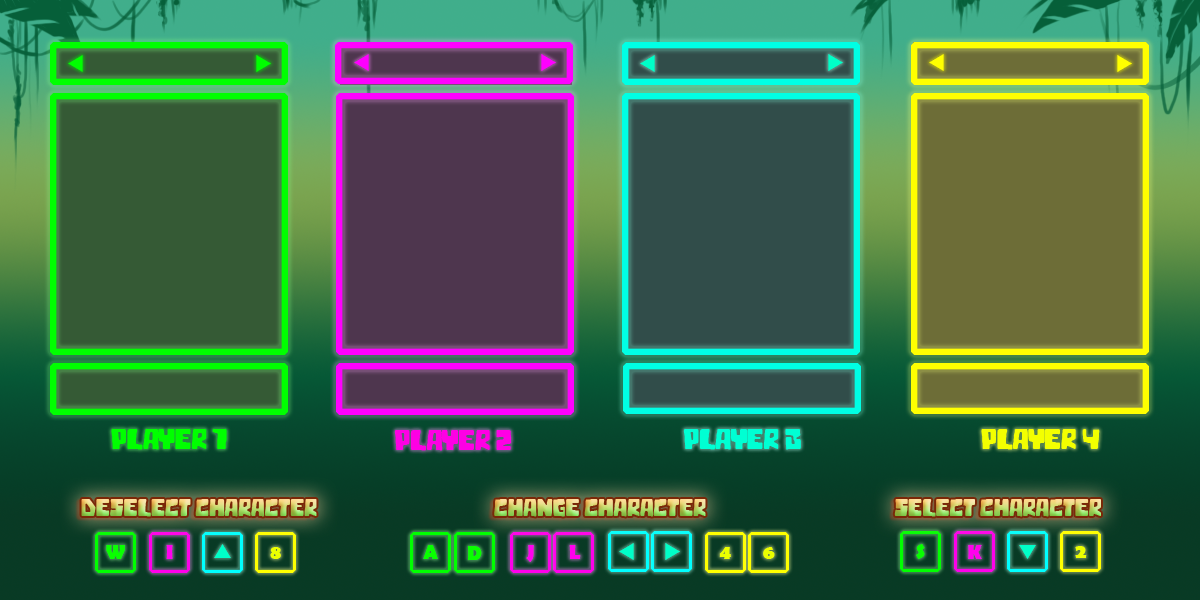
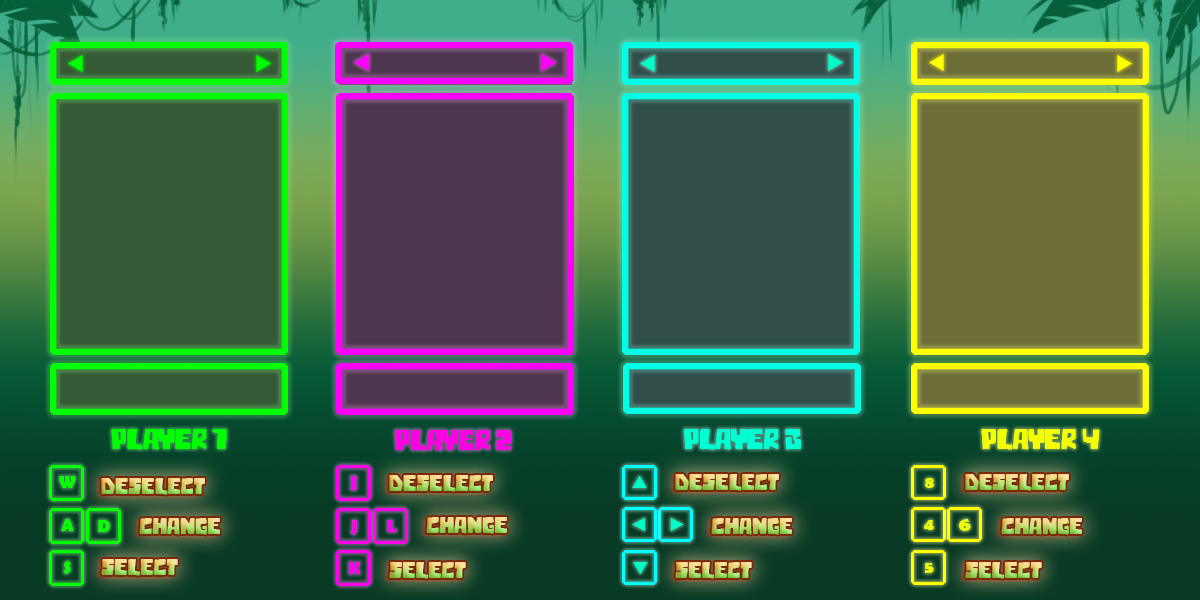
Things teachers told us to improve.

Changed region(s): [[0.0308, 0.75, 0.6783, 0.99], [0.74, 0.75, 0.925, 0.99]]

diff --git a/MangoMambo/Development/scenes/choose_character.js b/MangoMambo/Development/scenes/choose_character.js
@@ -67,6 +67,12 @@ class ChooseCharacter extends Phaser.Scene {
         this.load.image("toufat_hab", "./Design/Objects/Text/toufat_hab.png");
         this.load.image("lemur_hab", "./Design/Objects/Text/lemur_hab.png");
 
+        // Texto e imagenes que aparecen si no te has unido a la partida
+        this.load.image("press_g_key", "./Design/Objects/Keypress/press_g_key.png");
+        this.load.image("press_p_key", "./Design/Objects/Keypress/press_p_key.png");
+        this.load.image("press_b_key", "./Design/Objects/Keypress/press_b_key.png");
+        this.load.image("press_y_key", "./Design/Objects/Keypress/press_y_key.png");
+
         // Ready! para cuando el personaje se selecciona
         this.load.image("ready", "./Design/Objects/Text/ready.png");
 
@@ -137,6 +143,23 @@ class ChooseCharacter extends Phaser.Scene {
         // Boton escape
         this.escapeButton = this.add.image(45, 20, "escape_button");
 
+        // Texto e imagenes que aparecen si no te has unido a la partida
+        this.gkeys = this.add.image(169, 218, "press_g_key").setDepth(1);
+        this.pkeys = this.add.image(457.38, 218, "press_p_key").setDepth(1);
+        this.bkeys = this.add.image(746.48, 218, "press_b_key").setDepth(1);
+        this.ykeys = this.add.image(1035.23, 218, "press_y_key").setDepth(1);
+        // Movimiento
+        var tween = this.tweens.add({
+            targets: [this.gkeys, this.pkeys, this.bkeys, this.ykeys],
+            scaleX: 0.96,
+            scaleY: 0.96,
+            y: 220,
+            ease: 'Sine.easeInOut',
+            duration: 1000,
+            yoyo: true,
+            repeat: -1
+        });
+
         // Texto ready (seleccionado)
         this.ready1 = this.add.image(171.50, 239.05, "ready").setDepth(1);
         this.ready2 = this.add.image(457.50, 239.05, "ready").setDepth(1);
@@ -201,6 +224,7 @@ class ChooseCharacter extends Phaser.Scene {
                 this.players[0].active = true;
                 this.numPlayers++;
                 this.ChangeText(this.selector1, 0);// Que aparezca la habilidad/nombre al empezar a seleccionar
+                this.gkeys.alpha = 0;// Desaparecen las teclas
             }
         }else {// Si el jugador 1 ya se encuentra activo
             // A para cambiar de personaje
@@ -248,6 +272,7 @@ class ChooseCharacter extends Phaser.Scene {
                 this.selector1 = 0;
                 this.habilities[0].hab.alpha = 0;// Ocultar habilidad
                 this.names[0].name.alpha = 0;// Ocultar nombre
+                this.gkeys.alpha = 1;// Aparecen las teclas
             }
         }// Fin jugador 1
 
@@ -259,6 +284,7 @@ class ChooseCharacter extends Phaser.Scene {
                 this.players[1].active = true;
                 this.numPlayers++;
                 this.ChangeText(this.selector2, 1);// Que aparezca la habilidad/nombre al empezar a seleccionar
+                this.pkeys.alpha = 0;// Desaparecen las teclas
             }
         }else {
             // J para cambiar de personaje
@@ -306,6 +332,7 @@ class ChooseCharacter extends Phaser.Scene {
                 this.selector2 = 0;
                 this.habilities[1].hab.alpha = 0; // Ocultar habilidad
                 this.names[1].name.alpha = 0; // Ocultar nombre
+                this.pkeys.alpha = 1;// Aparecen las teclas
             }
         }//Fin jugador 2
         
@@ -317,6 +344,7 @@ class ChooseCharacter extends Phaser.Scene {
                 this.players[2].active = true;
                 this.numPlayers++;
                 this.ChangeText(this.selector3, 2);// Que aparezca la habilidad/nombre al empezar a seleccionar
+                this.bkeys.alpha = 0;// Desaparecen las teclas
             }
         }else {
             // LEFT para cambiar de personaje
@@ -364,6 +392,7 @@ class ChooseCharacter extends Phaser.Scene {
                 this.selector3 = 0;
                 this.habilities[2].hab.alpha = 0;// Ocultar habilidad
                 this.names[2].name.alpha = 0;// Ocultar nombre
+                this.bkeys.alpha = 1;// Aparecen las teclas
             }
         }//Fin jugador 3
         
@@ -375,6 +404,7 @@ class ChooseCharacter extends Phaser.Scene {
                 this.players[3].active = true;
                 this.numPlayers++;
                 this.ChangeText(this.selector4, 3);// Que aparezca la habilidad/nombre al empezar a seleccionar
+                this.ykeys.alpha = 0;// Desaparecen las teclas
             }
         }else {
             // NUMPAD_4 para cambiar de personaje
@@ -422,6 +452,7 @@ class ChooseCharacter extends Phaser.Scene {
                 this.selector4 = 0;
                 this.habilities[3].hab.alpha = 0;// Ocultar habilidad
                 this.names[3].name.alpha = 0;// Ocultar nombre
+                this.ykeys.alpha = 1;// Aparecen las teclas
             }
         }//Fin jugador 4
 

diff --git a/MangoMambo/Development/scenes/options.js b/MangoMambo/Development/scenes/options.js
@@ -12,12 +12,12 @@ class Options extends Phaser.Scene {
         // Cargar la imagen de fondo
         this.load.image("options_background", "./Design/Stages/Backgrounds/options_background.png");
         // Buttons
-        this.load.image("tutorial_button", "./Design/Objects/Buttons/tutorial_button.png");
+        //this.load.image("tutorial_button", "./Design/Objects/Buttons/tutorial_button.png"); NO SE INCLUYE EN ESTA FASE
         this.load.image("sound_button", "./Design/Objects/Buttons/sound_button.png");
         this.load.image("credits_button", "./Design/Objects/Buttons/credits_button.png");
         this.load.image("back_button", "./Design/Objects/Buttons/back_button.png");
         // Selected buttons
-        this.load.image("tutorial_button_select", "./Design/Objects/Buttons/tutorial_button_select.png");
+        //this.load.image("tutorial_button_select", "./Design/Objects/Buttons/tutorial_button_select.png"); NO SE INCLUYE EN ESTA FASE
         this.load.image("sound_button_select", "./Design/Objects/Buttons/sound_button_select.png");
         this.load.image("credits_button_select", "./Design/Objects/Buttons/credits_button_select.png");
         this.load.image("back_button_select", "./Design/Objects/Buttons/back_button_select.png");
@@ -35,13 +35,13 @@ class Options extends Phaser.Scene {
         // Fondo
         this.background = this.add.image(0, 0, "options_background").setOrigin(0,0).setDepth(0);
         // Botones 
-        this.tutorialButton = this.add.image(900, 130, "tutorial_button").setDepth(1);
+        //this.tutorialButton = this.add.image(900, 130, "tutorial_button").setDepth(1); NO SE INCLUYE EN ESTA FASE
         this.soundButton = this.add.image(900, 290, "sound_button").setDepth(1);
-        this.creditsButton = this.add.image(900, 470, "credits_button").setDepth(1);
+        this.creditsButton = this.add.image(900, 130, "credits_button").setDepth(1);
         this.backButton = this.add.image(150, 500, "back_button").setDepth(1);
-        this.tutorialButtonSelect = this.add.image(900, 130, "tutorial_button_select").setDepth(2);
+        //this.tutorialButtonSelect = this.add.image(900, 130, "tutorial_button_select").setDepth(2); NO SE INCLUYE EN ESTA FASE
         this.soundButtonSelect = this.add.image(900, 290, "sound_button_select").setDepth(2);
-        this.creditsButtonSelect = this.add.image(900, 470, "credits_button_select").setDepth(2);
+        this.creditsButtonSelect = this.add.image(900, 130, "credits_button_select").setDepth(2);
         this.backButtonSelect = this.add.image(150, 500, "back_button_select").setDepth(2);
         // Array de teclas
         this.cursors = [];
@@ -52,9 +52,11 @@ class Options extends Phaser.Scene {
         this.cursors[4] = this.input.keyboard.addKey(Phaser.Input.Keyboard.KeyCodes.ENTER);
         this.cursors[5] = this.input.keyboard.addKey(Phaser.Input.Keyboard.KeyCodes.ESC);
 
+        // Contador para el array de botones
         this.cont = 0;
 
-        this.options = [true, false, false, false];
+        //             Credits Sound Back
+        this.options = [true, false, false];
 
         // Se crea la música
         this.sound.pauseOnBlur = false;
@@ -68,7 +70,7 @@ class Options extends Phaser.Scene {
     update(time, delta){
 
         // Se esconde la imagen de seleción de los botones
-        this.tutorialButtonSelect.alpha = 0;
+        //this.tutorialButtonSelect.alpha = 0; NO SE INCLUYE EN ESTA FASE
         this.soundButtonSelect.alpha = 0;
         this.creditsButtonSelect.alpha = 0;
         this.backButtonSelect.alpha = 0;
@@ -87,30 +89,25 @@ class Options extends Phaser.Scene {
 
         //Resaltado de botón seleccionado
         if(this.options[0]){
-            this.tutorialButtonSelect.alpha = 1;
+            this.creditsButtonSelect.alpha = 1;
         }
         if(this.options[1]){
             this.soundButtonSelect.alpha = 1;
         }
         if(this.options[2]){
-            this.creditsButtonSelect.alpha = 1;
-        }
-        if(this.options[3]){
             this.backButtonSelect.alpha = 1;
         }
 
         //Cambio de pantalla
-        if((this.options[3] && this.cursors[4].isDown) || this.cursors[5].isDown){
+        if((this.options[2] && this.cursors[4].isDown) || this.cursors[5].isDown){
             this.scene.start("main_menu");
-            // this.scene.add(testingScene, new TestingScene);
             // Se para la música
             this.loop.stop();
         }
 
         //Cambio de pantalla
-        if(this.options[2] && this.cursors[4].isDown){
+        if(this.options[0] && this.cursors[4].isDown){
             this.scene.start("credits");
-            // this.scene.add(testingScene, new TestingScene);
             // Se para la música
             this.loop.stop();
         }

diff --git a/MangoMambo/Development/scenes/main_menu.js b/MangoMambo/Development/scenes/main_menu.js
@@ -22,15 +22,17 @@ class MainMenu extends Phaser.Scene {
         this.load.image("title", "./Design/Stages/Backgrounds/mango_mambo_title.png");
         // Botones
         this.load.image("local_button", "./Design/Objects/Buttons/local_button.png");
-        this.load.image("online_button", "./Design/Objects/Buttons/online_button.png");
+        //this.load.image("online_button", "./Design/Objects/Buttons/online_button.png"); NO SE INCLUYE EN ESTA FASE
         this.load.image("options_button", "./Design/Objects/Buttons/options_button.png");
         // Botones seleccionados
         this.load.image("local_button_select", "./Design/Objects/Buttons/local_button_select.png");
-        this.load.image("online_button_select", "./Design/Objects/Buttons/online_button_select.png");
+        //this.load.image("online_button_select", "./Design/Objects/Buttons/online_button_select.png"); NO SE INCLUYE EN ESTA FASE
         this.load.image("options_button_select", "./Design/Objects/Buttons/options_button_select.png");
+
+        this.load.image("options_button_disable", "./Design/Objects/Buttons/online_button_disable.png");
         
-        //              local online options
-        this.options = [true, false, false];
+        //              local options
+        this.options = [true, false];
         
         // Se carga la música
         this.load.audio("menu_begining", "./Design/Audio/MenuSong/menu_begining_with_edit.wav");
@@ -60,10 +62,11 @@ class MainMenu extends Phaser.Scene {
 
         // Botones 
         this.localButton = this.add.image(250, 160, "local_button").setDepth(1);
-        this.onlineButton = this.add.image(250, 270, "online_button").setDepth(1);
+        //this.onlineButton = this.add.image(250, 270, "online_button").setDepth(1); NO SE INCLUYE EN ESTA FASE
+        this.onlineDisable = this.add.image(250, 270, "options_button_disable").setDepth(1);
         this.optionsButton = this.add.image(250, 380, "options_button").setDepth(1);
         this.localButtonSelect = this.add.image(250, 160, "local_button_select").setDepth(2);
-        this.onlineButtonSelect = this.add.image(250, 270, "online_button_select").setDepth(2);
+        //this.onlineButtonSelect = this.add.image(250, 270, "online_button_select").setDepth(2); NO SE INCLUYE EN ESTA FASE
         this.optionsButtonSelect = this.add.image(250, 380, "options_button_select").setDepth(2);
         
         // Array de teclas
@@ -93,16 +96,16 @@ class MainMenu extends Phaser.Scene {
 
         // Se esconde la imagen de seleción de los botones
         this.localButtonSelect.alpha = 0;
-        this.onlineButtonSelect.alpha = 0;
+        //this.onlineButtonSelect.alpha = 0; NO SE INCLUYE EN ESTA FASE
         this.optionsButtonSelect.alpha = 0;
         
         // Selección de botones
-        if ((Phaser.Input.Keyboard.JustDown(this.cursors[1]) || Phaser.Input.Keyboard.JustDown(this.cursors[3])) && this.cont<=1){
+        if ((Phaser.Input.Keyboard.JustDown(this.cursors[1]) || Phaser.Input.Keyboard.JustDown(this.cursors[3])) && this.cont<=0){
             this.options[this.cont] = false;
             this.cont++;
             this.options[this.cont] = true;
         } 
-        if ((Phaser.Input.Keyboard.JustDown(this.cursors[0]) || Phaser.Input.Keyboard.JustDown(this.cursors[2])) && this.cont>=1){
+        if ((Phaser.Input.Keyboard.JustDown(this.cursors[0]) || Phaser.Input.Keyboard.JustDown(this.cursors[2])) && this.cont>=0){
             this.options[this.cont] = false;
             this.cont--;
             this.options[this.cont] = true;
@@ -113,9 +116,6 @@ class MainMenu extends Phaser.Scene {
             this.localButtonSelect.alpha = 1;
         }
         if(this.options[1]){
-            this.onlineButtonSelect.alpha = 1;
-        }
-        if(this.options[2]){
             this.optionsButtonSelect.alpha = 1;
         }
     
@@ -128,7 +128,7 @@ class MainMenu extends Phaser.Scene {
         }
 
         //Cambio de pantalla
-        if(this.options[2] && this.cursors[4].isDown ){
+        if(this.options[1] && this.cursors[4].isDown ){
             this.scene.start("options");
             // Se para la música
             this.intro.stop();

diff --git a/MangoMambo/Development/scenes/score_level.js b/MangoMambo/Development/scenes/score_level.js
@@ -84,13 +84,13 @@ class ScoreLevel extends Phaser.Scene {
                     var tweenCha = this.tweens.add({
                         targets: this.characters[i],
                         y: this.characters[i].y - this.characters[i].score * 20,
-                        duration: 4000
+                        duration: 2000
                     });
                     // Animación subida tótem
                     var tweenTot = this.tweens.add({
                         targets: this.gTotem,
                         y: 687 - this.characters[i].score * 20,
-                        duration: 4000
+                        duration: 2000
                     });
                     break;
                 // Jugador 2
@@ -104,13 +104,13 @@ class ScoreLevel extends Phaser.Scene {
                     var tweenCha = this.tweens.add({
                         targets: this.characters[i],
                         y: this.characters[i].y - this.characters[i].score * 20,
-                        duration: 4000
+                        duration: 2000
                     });
                     // Animación subida tótem
                     var tweenTot = this.tweens.add({
                         targets: this.pTotem,
                         y: 687 - this.characters[i].score * 20, // 430 max
-                        duration: 4000
+                        duration: 2000
                     });
                     break;
                 // Jugador 3    
@@ -124,13 +124,13 @@ class ScoreLevel extends Phaser.Scene {
                     var tweenCha = this.tweens.add({
                         targets: this.characters[i],
                         y: this.characters[i].y - this.characters[i].score * 20,
-                        duration: 4000
+                        duration: 2000
                     });
                     // Animación subida tótem
                     var tweenTot = this.tweens.add({
                         targets: this.bTotem,
                         y: 687 - this.characters[i].score * 20,
-                        duration: 4000
+                        duration: 2000
                     });
                     break;
                 // Jugador 4   
@@ -144,14 +144,14 @@ class ScoreLevel extends Phaser.Scene {
                     var tweenCha = this.tweens.add({
                         targets: this.characters[i],
                         y: this.characters[i].y - this.characters[i].score * 20,
-                        duration: 4000
+                        duration: 2000
                     });
                     // Animación subida tótem
                     var tweenTot = this.tweens.add({
                         targets: this.yTotem,
                         targets: this.characters[i],
                         y: 687 - this.characters[i].score * 20, // 687 min
-                        duration: 4000
+                        duration: 2000
                     });
                     break;
             }// Fin switch

diff --git a/MangoMambo/Development/scenes/level_1.js b/MangoMambo/Development/scenes/level_1.js
@@ -24,7 +24,7 @@ class Level1 extends Phaser.Scene {
     preload() {
 
         // Se cargan las imágenes de las plataformas
-        this.load.image("lvl1_background", "./Design/Stages/Backgrounds/lvl_1_background.png");
+        this.load.image("lvl1_background", "./Design/Stages/Backgrounds/level_1_background.png");
         //Plataformas
         this.load.image("big_plat", "./Design/Stages/Platforms/big_plat.png");
         this.load.image("bott_step1", "./Design/Stages/Platforms/bott_step1.png");
